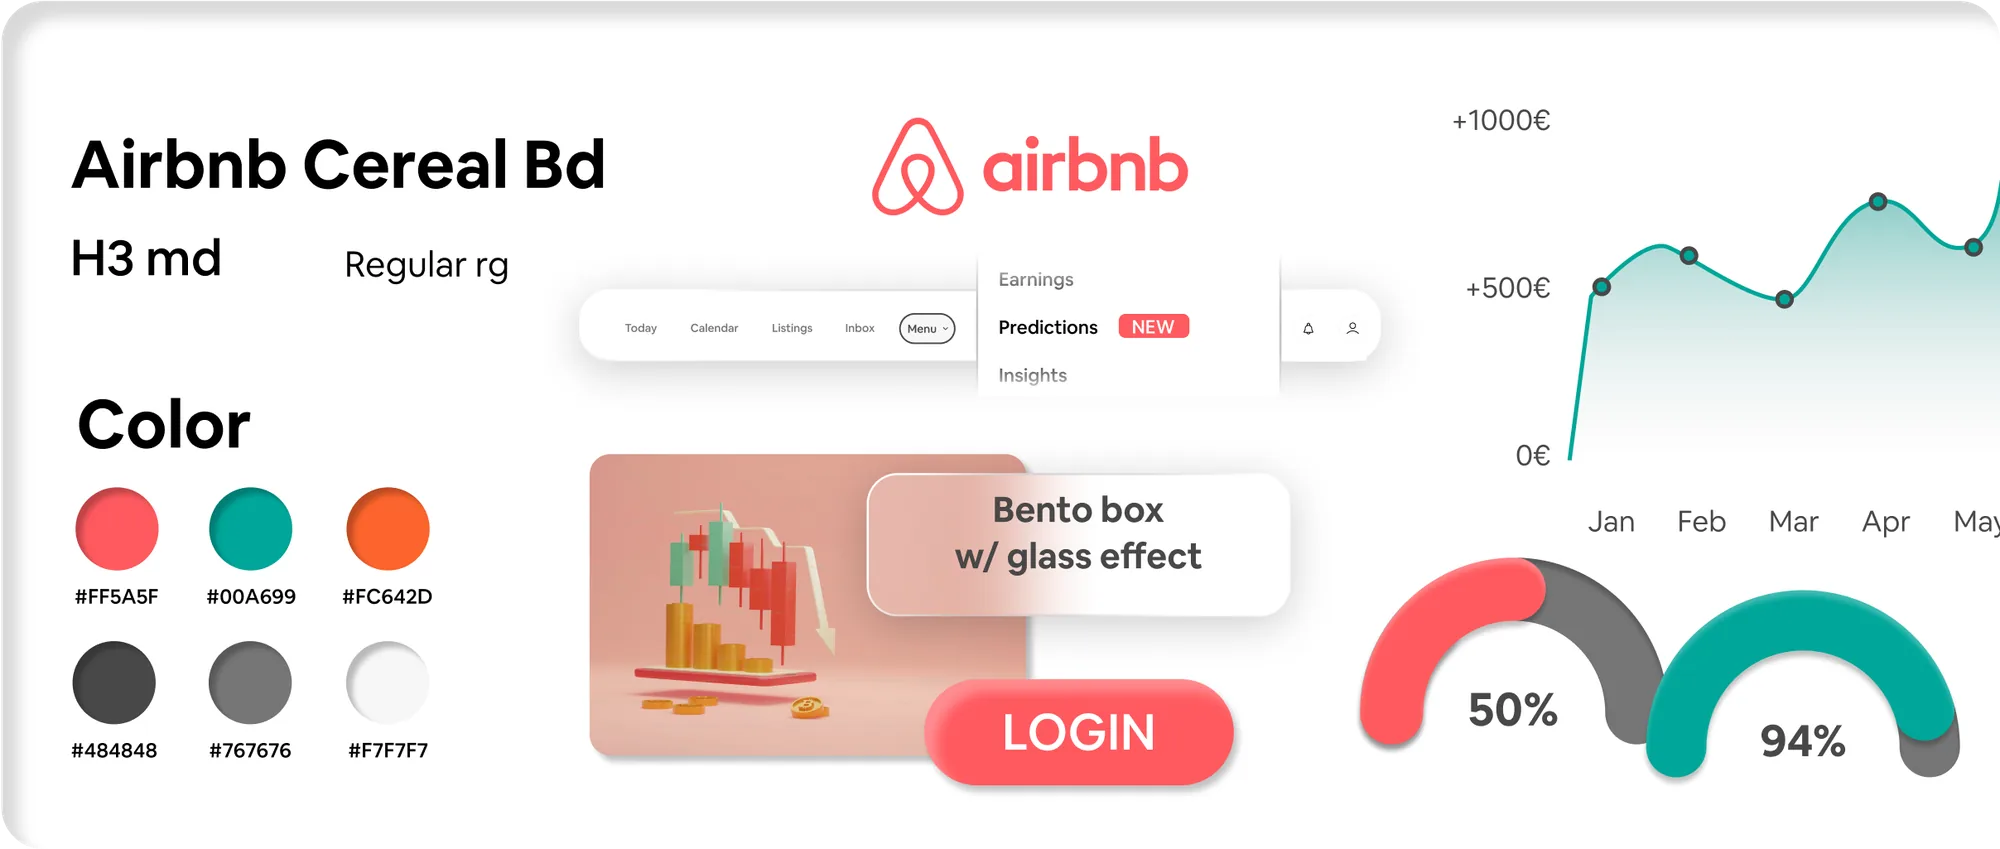
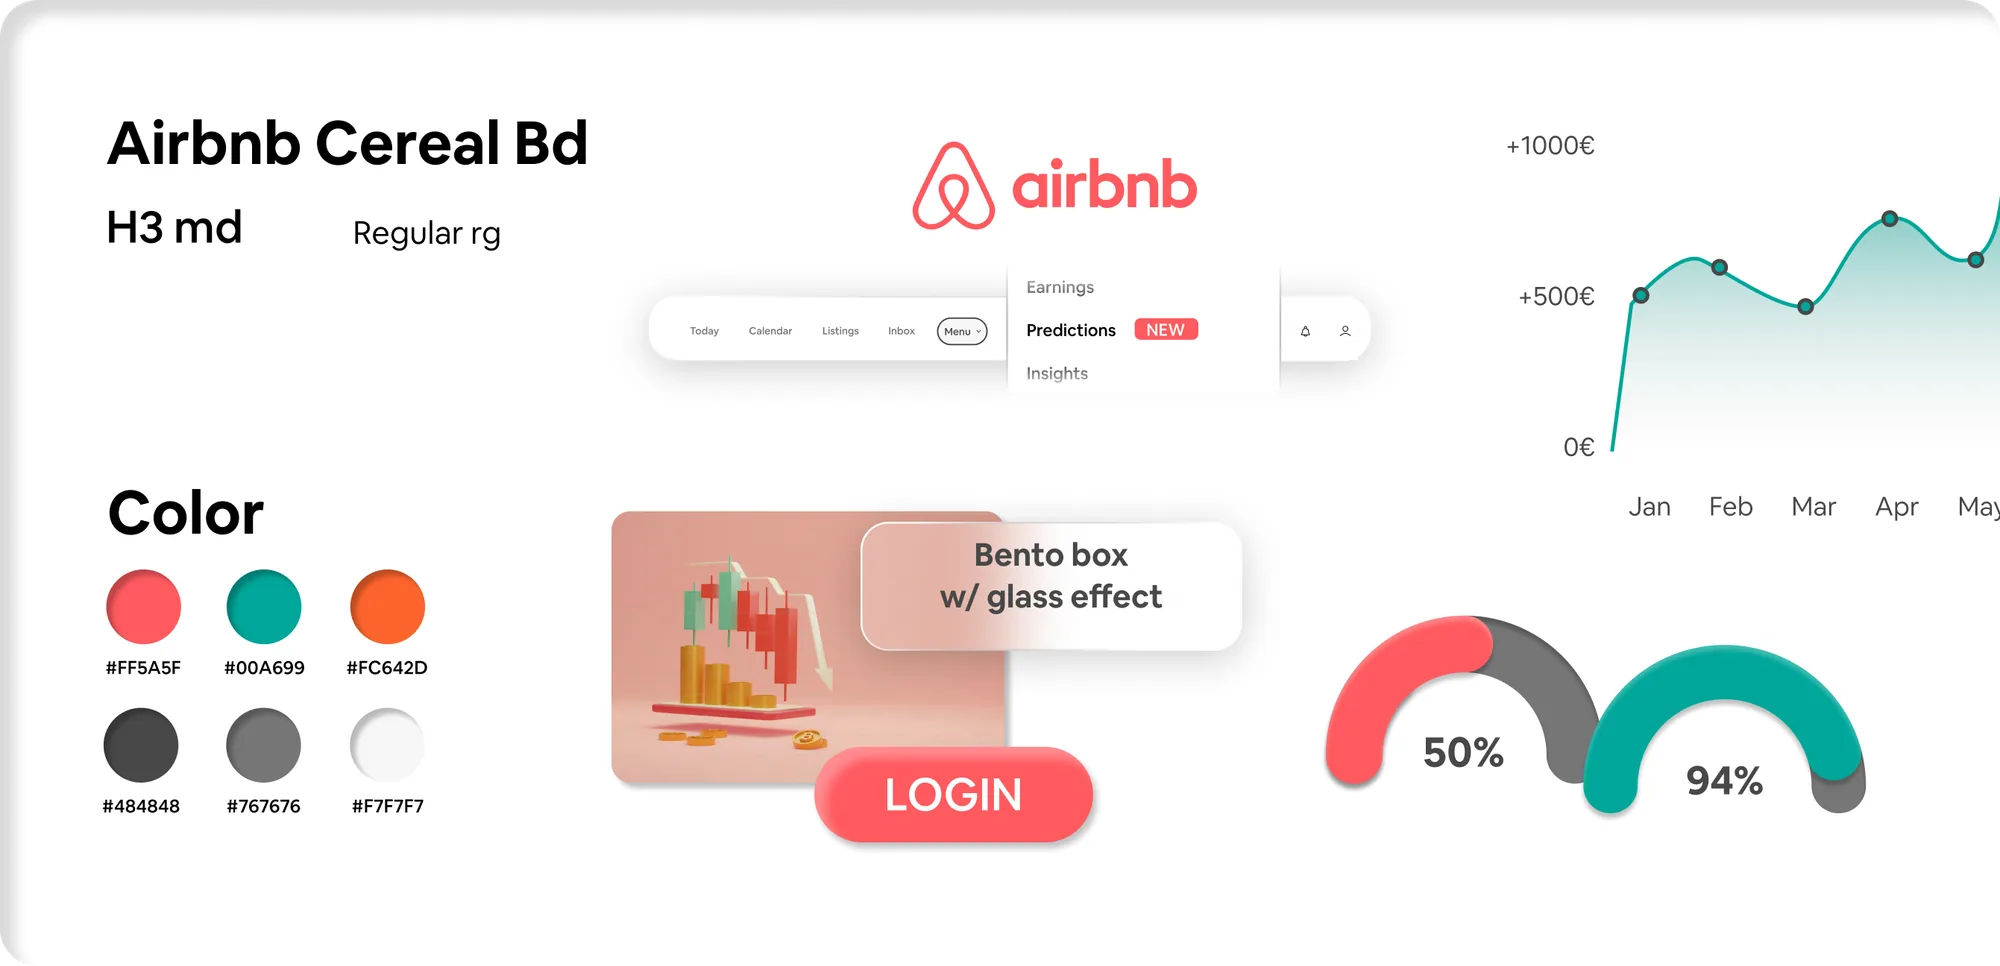
Dashboard: new style tile (same format as components), paper prototype image

diff --git a/js/i18n.js b/js/i18n.js
@@ -40,7 +40,7 @@ const TEXT = {
     "ex.hero":"ecomex Website auf Laptop und Smartphone",
     "ex.structure":"Seitenstruktur der ecomex-Website und wiederverwendbare Komponenten","ex.oldnew":"Gegenüberstellung der alten und der neu gestalteten ecomex-Website","ex.flowxd":"Screens des responsiven Bewerbungs-Flows in Adobe XD","ex.flowdev":"Bewerbungs-Flow der ecomex-Website auf Laptop und Smartphones","ex.brand":"ecomex Markenelemente: Logo-Varianten, Typografie, Farben und Icons","ex.graphics":"Wiederverwendbare Grafikelemente und Illustrationen von ecomex","ex.icons":"Icon-System im Einsatz in internen Dokumenten und Präsentationen","ex.marketing":"Ausgewählte Marketing-Touchpoints: Social Media, Messe, Sponsoring, Digital Advertising und Newsletter","ex.dtdevices":"Digiteach-Website auf Monitor, Laptop und Smartphone","ex.dtpages":"Übersicht der Digiteach-Seiten und Logo","ex.workshop":"Arbeitssituation während eines Workshops",
     "db.hero":"Airbnb Earnings Dashboard auf einem Monitor mit Styleguide",
-    "db.affinity":"Affinity Diagram mit geclusterten Beobachtungen aus den Interviews","db.crazy8":"Crazy-8s-Skizzen und MoSCoW-Priorisierung der Ideen","db.tile":"Style Tile des Dashboards mit Typografie, Farben und UI-Elementen","db.comp":"Ausschnitt aus dem Figma-Komponentensystem des Dashboards","db.final":"Finales Airbnb-Dashboard auf zwei Laptops",
+    "db.affinity":"Affinity Diagram mit geclusterten Beobachtungen aus den Interviews","db.crazy8":"Crazy-8s-Skizzen und MoSCoW-Priorisierung der Ideen","db.paper":"Test mit dem Papierprototyp: zwei Testpersonen interagieren mit den Papier-Screens","db.tile":"Style Tile des Dashboards mit Typografie, Farben und UI-Elementen","db.comp":"Ausschnitt aus dem Figma-Komponentensystem des Dashboards","db.final":"Finales Airbnb-Dashboard auf zwei Laptops",
     "nx.hero":"Smartphone mit dem Nexio-App-Icon auf dunklem Hintergrund",
   },
   en: {
@@ -81,7 +81,7 @@ const TEXT = {
     "ex.hero":"ecomex website on laptop and smartphone",
     "ex.structure":"Page structure of the ecomex website and reusable components","ex.oldnew":"Comparison of the old and the redesigned ecomex website","ex.flowxd":"Screens of the responsive application flow in Adobe XD","ex.flowdev":"ecomex application flow on laptop and smartphones","ex.brand":"ecomex brand elements: logo variants, typography, colors and icons","ex.graphics":"Reusable ecomex graphic elements and illustrations","ex.icons":"Icon system applied in internal documents and presentations","ex.marketing":"Selected marketing touchpoints: social media, trade fair, sponsoring, digital advertising and newsletter","ex.dtdevices":"Digiteach website on monitor, laptop and smartphone","ex.dtpages":"Overview of the Digiteach pages and logo","ex.workshop":"Working session during a workshop",
     "db.hero":"Airbnb earnings dashboard on a monitor with style guide",
-    "db.affinity":"Affinity diagram with clustered observations from the interviews","db.crazy8":"Crazy 8s sketches and MoSCoW prioritization of the ideas","db.tile":"Dashboard style tile with typography, colors and UI elements","db.comp":"Excerpt from the dashboard's Figma component system","db.final":"Final Airbnb dashboard on two laptops",
+    "db.affinity":"Affinity diagram with clustered observations from the interviews","db.crazy8":"Crazy 8s sketches and MoSCoW prioritization of the ideas","db.paper":"Paper prototype test: two participants interacting with the paper screens","db.tile":"Dashboard style tile with typography, colors and UI elements","db.comp":"Excerpt from the dashboard's Figma component system","db.final":"Final Airbnb dashboard on two laptops",
     "nx.hero":"Smartphone showing the Nexio app icon on a dark background",
   }
 };

diff --git a/cs-dashboard.html b/cs-dashboard.html
@@ -5,7 +5,7 @@
 <meta name="viewport" content="width=device-width, initial-scale=1, viewport-fit=cover">
 <title>Airbnb Earnings Dashboard – Susann Gebert</title>
 <meta name="description" content="Case Study: Ein integriertes Dashboard-Konzept, mit dem Airbnb-Gastgeber ihre Einnahmen abschätzen, Kosten verstehen und Performance-Daten auf einen Blick abrufen können.">
-<link rel="stylesheet" href="css/style.css?v=53">
+<link rel="stylesheet" href="css/style.css?v=54">
 </head>
 <body>
 
@@ -227,7 +227,7 @@
       <p data-only="de">Die modulare Darstellung der Informationen kam gut an. Die Gesten und Interaktionen der Teilnehmenden zu beobachten, half uns außerdem zu verstehen, welche Bereiche klickbar wirkten, wie sich die Karten ihrer Erwartung nach verhalten sollten und wo sie nach bestimmten Informationen suchten.</p>
       <p data-only="en">The modular presentation of information was received positively. Observing participants’ gestures and interactions also helped us understand which areas appeared clickable, how they expected cards to behave and where they looked for specific information.</p>
 
-      <div class="cs-ph" style="aspect-ratio:16/9">Bild: Test mit Papierprototyp<small>1720 × 968</small></div>
+      <img class="cs-img" src="images/dashboard-paper-prototype.webp" width="2000" height="1198" loading="lazy" alt="Test mit dem Papierprototyp: zwei Testpersonen interagieren mit den Papier-Screens" data-i18n-alt="db.paper">
 
       <p data-only="de">Ihr Feedback führte dazu, dass wir Dashboard-Struktur, Interaktionsmuster und Informationshierarchie verfeinert haben, bevor wir den High-Fidelity-Prototyp entwickelten.</p>
       <p data-only="en">Their feedback led us to refine the dashboard structure, interaction patterns and information hierarchy before developing the high-fidelity prototype.</p>
@@ -243,7 +243,7 @@
       <p data-only="en">I focused primarily on the visual execution and created the component system in Figma. This helped us maintain consistency across cards, charts, navigation elements and interactive states while iterating on the prototype.</p>
 
       <div class="cs-pair">
-        <img class="cs-img" src="images/dashboard-style-tile.webp" width="2000" height="849" loading="lazy" alt="Style Tile des Dashboards mit Typografie, Farben und UI-Elementen" data-i18n-alt="db.tile">
+        <img class="cs-img" src="images/dashboard-style-tile.webp?v=2" width="2000" height="966" loading="lazy" alt="Style Tile des Dashboards mit Typografie, Farben und UI-Elementen" data-i18n-alt="db.tile">
         <img class="cs-img" src="images/dashboard-components.webp" width="2000" height="966" loading="lazy" alt="Ausschnitt aus dem Figma-Komponentensystem des Dashboards" data-i18n-alt="db.comp">
       </div>
 
@@ -410,8 +410,8 @@
   </nav>
 </div>
 
-<script src="js/i18n.js?v=53"></script>
-<script src="js/main.js?v=53"></script>
-<script src="js/case.js?v=53"></script>
+<script src="js/i18n.js?v=54"></script>
+<script src="js/main.js?v=54"></script>
+<script src="js/case.js?v=54"></script>
 </body>
 </html>

diff --git a/cs-mobile-app.html b/cs-mobile-app.html
@@ -5,7 +5,7 @@
 <meta name="viewport" content="width=device-width, initial-scale=1, viewport-fit=cover">
 <title>GasolinaToday Mobile App – Susann Gebert</title>
 <meta name="description" content="Case Study: GasolinaToday – ein App-Konzept, das Autofahrern in Venezuela hilft, verfügbaren Treibstoff zu finden, Warteschlangen einzuschätzen und Fahrten sicherer zu planen.">
-<link rel="stylesheet" href="css/style.css?v=53">
+<link rel="stylesheet" href="css/style.css?v=54">
 </head>
 <body>
 
@@ -519,8 +519,8 @@
   </nav>
 </div>
 
-<script src="js/i18n.js?v=53"></script>
-<script src="js/main.js?v=53"></script>
-<script src="js/case.js?v=53"></script>
+<script src="js/i18n.js?v=54"></script>
+<script src="js/main.js?v=54"></script>
+<script src="js/case.js?v=54"></script>
 </body>
 </html>

diff --git a/cs-e-commerce.html b/cs-e-commerce.html
@@ -5,7 +5,7 @@
 <meta name="viewport" content="width=device-width, initial-scale=1, viewport-fit=cover">
 <title>Nebulite E-Commerce – Susann Gebert</title>
 <meta name="description" content="Case Study: Ein research-basiertes Redesign für den Onlineshop von Nebulite – mit klarerer Produktsuche, stärkerer Nutzenkommunikation und einem intuitiveren Einkaufserlebnis.">
-<link rel="stylesheet" href="css/style.css?v=53">
+<link rel="stylesheet" href="css/style.css?v=54">
 </head>
 <body>
 
@@ -398,8 +398,8 @@
   </nav>
 </div>
 
-<script src="js/i18n.js?v=53"></script>
-<script src="js/main.js?v=53"></script>
-<script src="js/case.js?v=53"></script>
+<script src="js/i18n.js?v=54"></script>
+<script src="js/main.js?v=54"></script>
+<script src="js/case.js?v=54"></script>
 </body>
 </html>

diff --git a/ecomex.html b/ecomex.html
@@ -5,7 +5,7 @@
 <meta name="viewport" content="width=device-width, initial-scale=1, viewport-fit=cover">
 <title>ecomex Business Academy – Susann Gebert</title>
 <meta name="description" content="ecomex Business Academy: Weiterentwicklung von Website, Markenidentität und Marketing-Touchpoints – UX/UI-Design, responsives Webdesign und wiederverwendbare Design-Assets.">
-<link rel="stylesheet" href="css/style.css?v=53">
+<link rel="stylesheet" href="css/style.css?v=54">
 </head>
 <body>
 
@@ -297,8 +297,8 @@
   </nav>
 </div>
 
-<script src="js/i18n.js?v=53"></script>
-<script src="js/main.js?v=53"></script>
-<script src="js/case.js?v=53"></script>
+<script src="js/i18n.js?v=54"></script>
+<script src="js/main.js?v=54"></script>
+<script src="js/case.js?v=54"></script>
 </body>
 </html>

diff --git a/cs-nexio.html b/cs-nexio.html
@@ -5,7 +5,7 @@
 <meta name="viewport" content="width=device-width, initial-scale=1, viewport-fit=cover">
 <title>Nexio Fleet | Brand Identity &amp; UX/UI Design — Susann Gebert</title>
 <meta name="description" content="Explore the Nexio Fleet case study: brand identity, product discovery, interactive app prototyping and UX/UI refinement for a mobility startup.">
-<link rel="stylesheet" href="css/style.css?v=53">
+<link rel="stylesheet" href="css/style.css?v=54">
 </head>
 <body>
 
@@ -389,8 +389,8 @@
   </nav>
 </div>
 
-<script src="js/i18n.js?v=53"></script>
-<script src="js/main.js?v=53"></script>
-<script src="js/case.js?v=53"></script>
+<script src="js/i18n.js?v=54"></script>
+<script src="js/main.js?v=54"></script>
+<script src="js/case.js?v=54"></script>
 </body>
 </html>

diff --git a/all-projects.html b/all-projects.html
@@ -5,7 +5,7 @@
 <meta name="viewport" content="width=device-width, initial-scale=1, viewport-fit=cover">
 <title>Projekte – Susann Gebert</title>
 <meta name="description" content="Alle Projekte von Susann Gebert – UX/UI-Design, Research und digitale Produkterlebnisse.">
-<link rel="stylesheet" href="css/style.css?v=53">
+<link rel="stylesheet" href="css/style.css?v=54">
 </head>
 <body>
 
@@ -200,7 +200,7 @@
   </nav>
 </div>
 
-<script src="js/i18n.js?v=53"></script>
-<script src="js/main.js?v=53"></script>
+<script src="js/i18n.js?v=54"></script>
+<script src="js/main.js?v=54"></script>
 </body>
 </html>

diff --git a/index.html b/index.html
@@ -5,7 +5,7 @@
 <meta name="viewport" content="width=device-width, initial-scale=1, viewport-fit=cover">
 <title>Susann Gebert | UX &amp; Product Specialist</title>
 <meta name="description" content="Susann Gebert – UX & Product Design aus Berlin.">
-<link rel="stylesheet" href="css/style.css?v=53">
+<link rel="stylesheet" href="css/style.css?v=54">
 </head>
 <body>
 
@@ -210,7 +210,7 @@
   </nav>
 </div>
 
-<script src="js/i18n.js?v=53"></script>
-<script src="js/main.js?v=53"></script>
+<script src="js/i18n.js?v=54"></script>
+<script src="js/main.js?v=54"></script>
 </body>
 </html>

diff --git a/about.html b/about.html
@@ -5,7 +5,7 @@
 <meta name="viewport" content="width=device-width, initial-scale=1, viewport-fit=cover">
 <title>About – Susann Gebert</title>
 <meta name="description" content="Susann Gebert – UX & Product Design aus Berlin.">
-<link rel="stylesheet" href="css/style.css?v=53">
+<link rel="stylesheet" href="css/style.css?v=54">
 </head>
 <body>
 
@@ -127,7 +127,7 @@
   </nav>
 </div>
 
-<script src="js/i18n.js?v=53"></script>
-<script src="js/main.js?v=53"></script>
+<script src="js/i18n.js?v=54"></script>
+<script src="js/main.js?v=54"></script>
 </body>
 </html>
